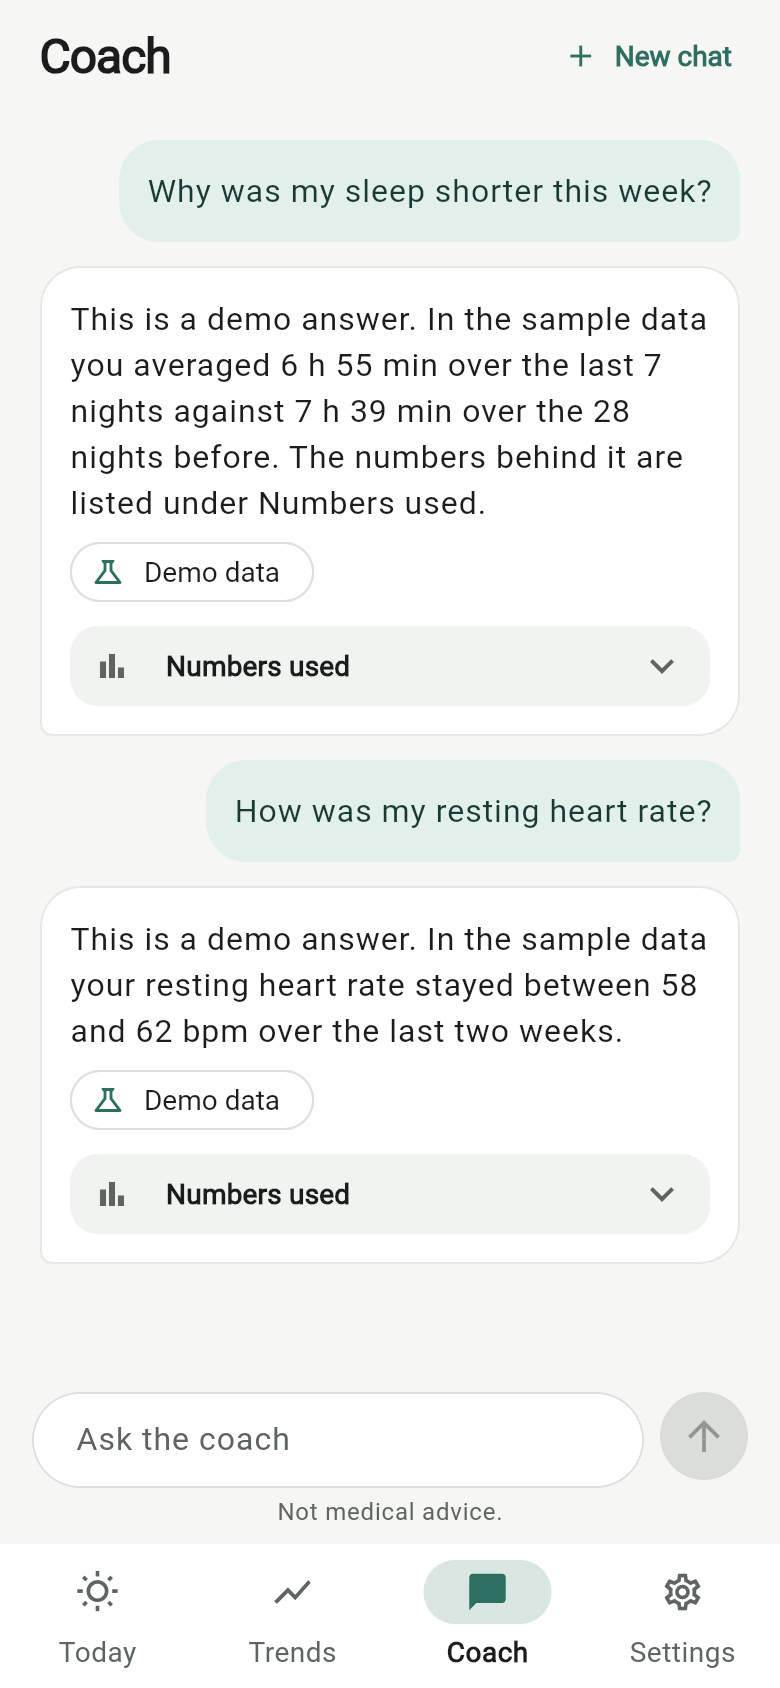
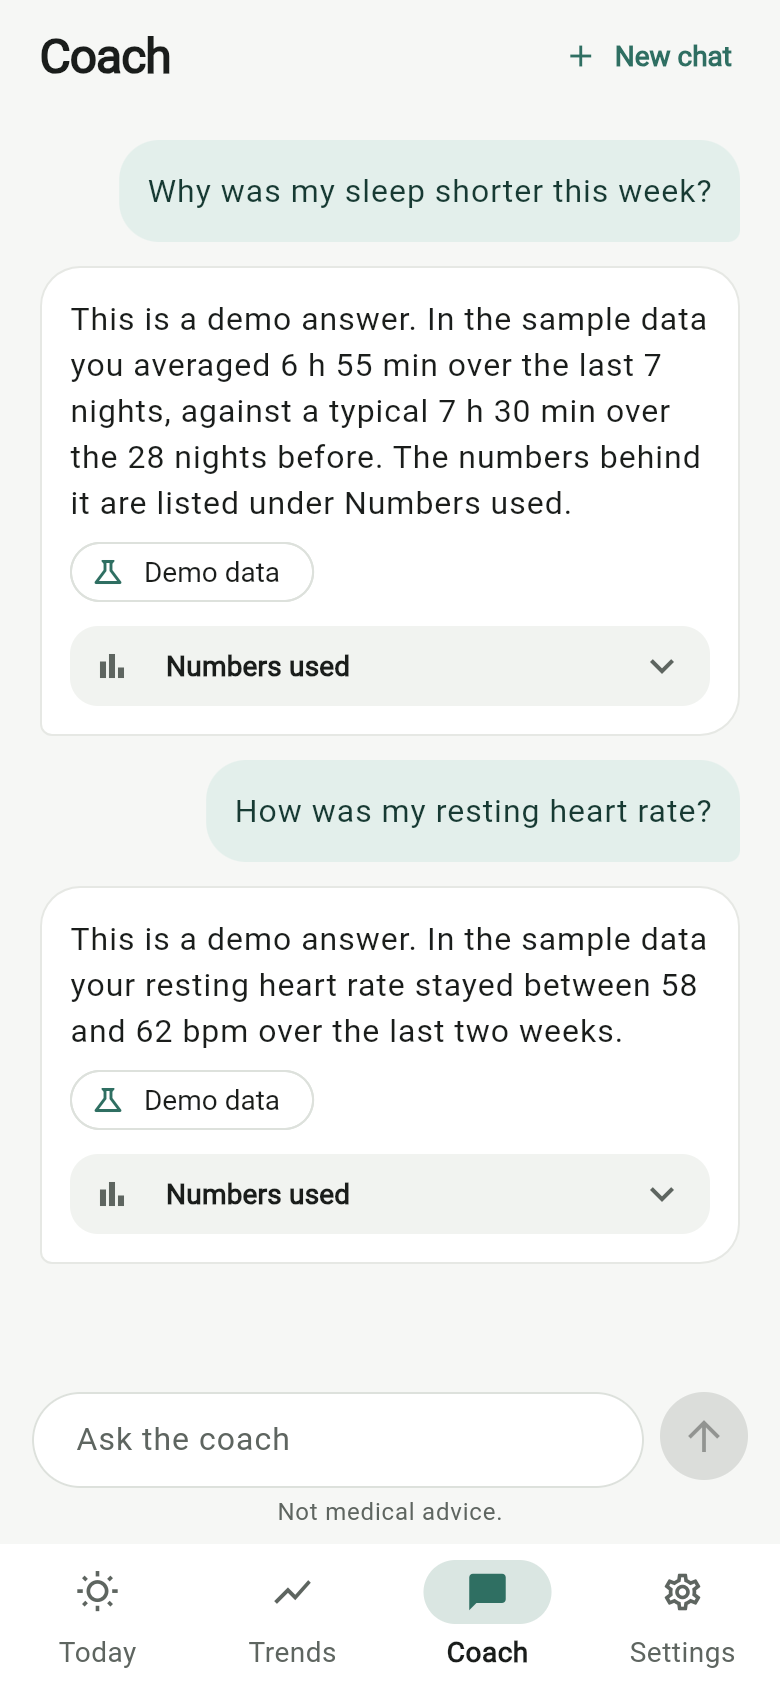
Demo polish: demo sync message, coach baseline matches typical, page titles
Claude-Session: https://claude.ai/code/session_01Bj1ZBwr5J7QMu6k2WYgFhz

Changed region(s): [[0.0923, 0.2156, 0.8923, 0.3081]]

diff --git a/app/test/demo_mode_test.dart b/app/test/demo_mode_test.dart
@@ -5,6 +5,9 @@ import 'package:wearable_companion/core/demo/demo_data.dart';
 import 'package:wearable_companion/core/demo/demo_mode.dart';
 import 'package:wearable_companion/core/demo/demo_overrides.dart';
 import 'package:wearable_companion/core/demo/demo_repositories.dart';
+import 'package:wearable_companion/features/today/domain/usual.dart';
+import 'package:wearable_companion/features/workouts/workout_provider.dart';
+import 'dart:io';
 import 'package:wearable_companion/data/providers.dart';
 import 'package:wearable_companion/main.dart';
 
@@ -116,6 +119,65 @@ void main() {
     expect(rows.first.date, DateTime(2030, 3, 15 - demoDays));
     expect(rows.every((r) => r.isDemo && r.sleepMinutes != null), isTrue);
     expect(rows.where((r) => r.sleepMinutes! < 340).length, greaterThan(1));
+  });
+
+  testWidgets('demo opens on Today with no workout sheet on top', (tester) async {
+    tester.view.physicalSize = const Size(780, 1688);
+    tester.view.devicePixelRatio = 2;
+    addTearDown(tester.view.resetPhysicalSize);
+    addTearDown(tester.view.resetDevicePixelRatio);
+    final container = ProviderContainer(overrides: demoOverrides());
+    addTearDown(container.dispose);
+    await tester.pumpWidget(UncontrolledProviderScope(
+      container: container,
+      child: const HealthCompanionApp(),
+    ));
+    await tester.pumpAndSettle();
+    // Let the workout and history checks finish.
+    for (var i = 0; i < 4; i++) {
+      await tester.pump(const Duration(seconds: 15));
+    }
+    await tester.pumpAndSettle();
+    final state = container.read(workoutProvider);
+    expect(state.summary, isNull);
+    expect(state.startPrompt, isNull);
+    expect(state.stopPrompt, isNull);
+    expect(find.textContaining('summary'), findsNothing);
+    expect(find.text('Today'), findsWidgets);
+    expect(find.text("Today's workouts"), findsOneWidget);
+    expect(tester.takeException(), isNull);
+  });
+
+  testWidgets('Sync now in demo says nothing was synced', (tester) async {
+    await openDemo(tester);
+    await tester.tap(find.text('Sync now'));
+    await tester.pumpAndSettle();
+    expect(find.text('Demo mode: nothing was synced.'), findsOneWidget);
+    expect(find.text('Sync finished.'), findsNothing);
+  });
+
+  test('the coach baseline is the same typical the cards use', () async {
+    final today = DateTime(2030, 3, 15, 9, 30);
+    final typical = calculateUsual(demoRows(today), today).sleep.usual!;
+    final history = await DemoCoachRepository().latestThread('demo-user');
+    final answer = history.firstWhere((m) => !m.isUser && m.facts.isNotEmpty);
+    final compare = (answer.facts['tools'] as List).single as Map;
+    final result = compare['result'] as Map;
+    final b = result['b'] as Map;
+    expect(b['median'], typical);
+    expect(result['b'] is Map && b['nights_with_data'] == 28, isTrue);
+    final typicalText = '${typical.round() ~/ 60} h '
+        '${(typical.round() % 60).toString().padLeft(2, '0')} min';
+    expect(answer.content, contains('a typical $typicalText'));
+  });
+
+  test('web title and description name the app', () {
+    final html = File('web/index.html').readAsStringSync();
+    expect(html, contains('<title>Wearable Health Companion</title>'));
+    expect(html, isNot(contains('A new Flutter project')));
+    final manifest = File('web/manifest.json').readAsStringSync();
+    expect(manifest, contains('"name": "Wearable Health Companion"'));
+    expect(manifest, isNot(contains('A new Flutter project')));
   });
 
   test('demo mode is off by default', () {

diff --git a/app/lib/core/demo/demo_data.dart b/app/lib/core/demo/demo_data.dart
@@ -58,7 +58,9 @@ double _median(List<int> v) {
 double _round(double v) => (v * 10).round() / 10;
 
 /// A `compare_periods` tool result built from the demo rows: the last 7 days
-/// against the 28 days before them, for sleep.
+/// (including today) against the 28 days before today. That baseline is the
+/// same window Today and Trends use for "typical" (the median), so the coach
+/// and the cards quote one number.
 Map<String, dynamic> _sleepComparison(DateTime today) {
   final rows = demoRows(today);
   List<DailyMetrics> between(int fromAgo, int toAgo) => rows
@@ -67,7 +69,7 @@ Map<String, dynamic> _sleepComparison(DateTime today) {
         return ago >= toAgo && ago <= fromAgo;
       })
       .toList();
-  final a = between(6, 0), b = between(34, 7);
+  final a = between(6, 0), b = between(28, 1);
   Map<String, dynamic> period(List<DailyMetrics> p) {
     final v = [for (final r in p) r.sleepMinutes!];
     return {
@@ -78,11 +80,11 @@ Map<String, dynamic> _sleepComparison(DateTime today) {
     };
   }
 
-  final meanB = _mean([for (final r in b) r.sleepMinutes!]);
+  final typicalB = _median([for (final r in b) r.sleepMinutes!]);
   final contributors = [...a]
     ..sort(
-      (x, y) => (y.sleepMinutes! - meanB).abs().compareTo(
-        (x.sleepMinutes! - meanB).abs(),
+      (x, y) => (y.sleepMinutes! - typicalB).abs().compareTo(
+        (x.sleepMinutes! - typicalB).abs(),
       ),
     );
   return {
@@ -105,8 +107,8 @@ Map<String, dynamic> _compareFacts(DateTime today) => {
         'metric': 'sleep_minutes',
         'a_start': _dateKey(_date(today, 6)),
         'a_end': _dateKey(_date(today, 0)),
-        'b_start': _dateKey(_date(today, 34)),
-        'b_end': _dateKey(_date(today, 7)),
+        'b_start': _dateKey(_date(today, 28)),
+        'b_end': _dateKey(_date(today, 1)),
       },
       'result': _sleepComparison(today),
     },
@@ -142,8 +144,9 @@ const demoThreadId = 'demo-thread';
 
 /// Two prepared questions with answers, shown as the coach's saved history.
 List<CoachMessage> demoCoachHistory(DateTime today) {
-  final a = _sleepComparison(today)['a'] as Map<String, dynamic>;
-  final b = _sleepComparison(today)['b'] as Map<String, dynamic>;
+  final comparison = _sleepComparison(today);
+  final a = comparison['a'] as Map<String, dynamic>;
+  final b = comparison['b'] as Map<String, dynamic>;
   String hm(num minutes) =>
       '${minutes.round() ~/ 60} h ${(minutes.round() % 60).toString().padLeft(2, '0')} min';
   return [
@@ -157,8 +160,8 @@ List<CoachMessage> demoCoachHistory(DateTime today) {
       role: 'assistant',
       content:
           'This is a demo answer. In the sample data you averaged '
-          '${hm(a['mean'] as num)} over the last 7 nights against '
-          '${hm(b['mean'] as num)} over the 28 nights before. '
+          '${hm(a['mean'] as num)} over the last 7 nights, against a typical '
+          '${hm(b['median'] as num)} over the 28 nights before. '
           'The numbers behind it are listed under Numbers used.',
       facts: _compareFacts(today),
       isDemo: true,

diff --git a/app/web/index.html b/app/web/index.html
@@ -18,7 +18,7 @@
 
   <meta charset="UTF-8">
   <meta content="IE=Edge" http-equiv="X-UA-Compatible">
-  <meta name="description" content="A new Flutter project.">
+  <meta name="description" content="See what changed from your usual in 10 seconds.">
 
   <!--
     Uncomment the tag below to lay the app out underneath the parts of the
@@ -35,13 +35,13 @@
   <!-- iOS meta tags & icons -->
   <meta name="mobile-web-app-capable" content="yes">
   <meta name="apple-mobile-web-app-status-bar-style" content="black">
-  <meta name="apple-mobile-web-app-title" content="wearable_companion">
+  <meta name="apple-mobile-web-app-title" content="Wearable Health Companion">
   <link rel="apple-touch-icon" href="icons/Icon-192.png">
 
   <!-- Favicon -->
   <link rel="icon" type="image/png" href="favicon.png"/>
 
-  <title>wearable_companion</title>
+  <title>Wearable Health Companion</title>
   <link rel="manifest" href="manifest.json">
 </head>
 <body>

diff --git a/app/lib/features/today/today_screen.dart b/app/lib/features/today/today_screen.dart
@@ -7,6 +7,7 @@ import 'package:intl/intl.dart';
 
 import '../../core/theme.dart';
 import '../../core/widgets/app_card.dart';
+import '../../core/demo/demo_mode.dart';
 import '../../core/widgets/connect_prompt.dart';
 import '../../core/widgets/usual_range_bar.dart';
 import '../../data/daily_metrics.dart';
@@ -72,6 +73,8 @@ class _TodayScreenState extends ConsumerState<TodayScreen>
               ? 'Some data could not sync. Please try again.'
               : result.remaining > 0
               ? 'More data is waiting to sync. Tap Sync now again shortly.'
+              : ref.read(demoModeProvider)
+              ? 'Demo mode: nothing was synced.'
               : 'Sync finished.';
         });
       }
